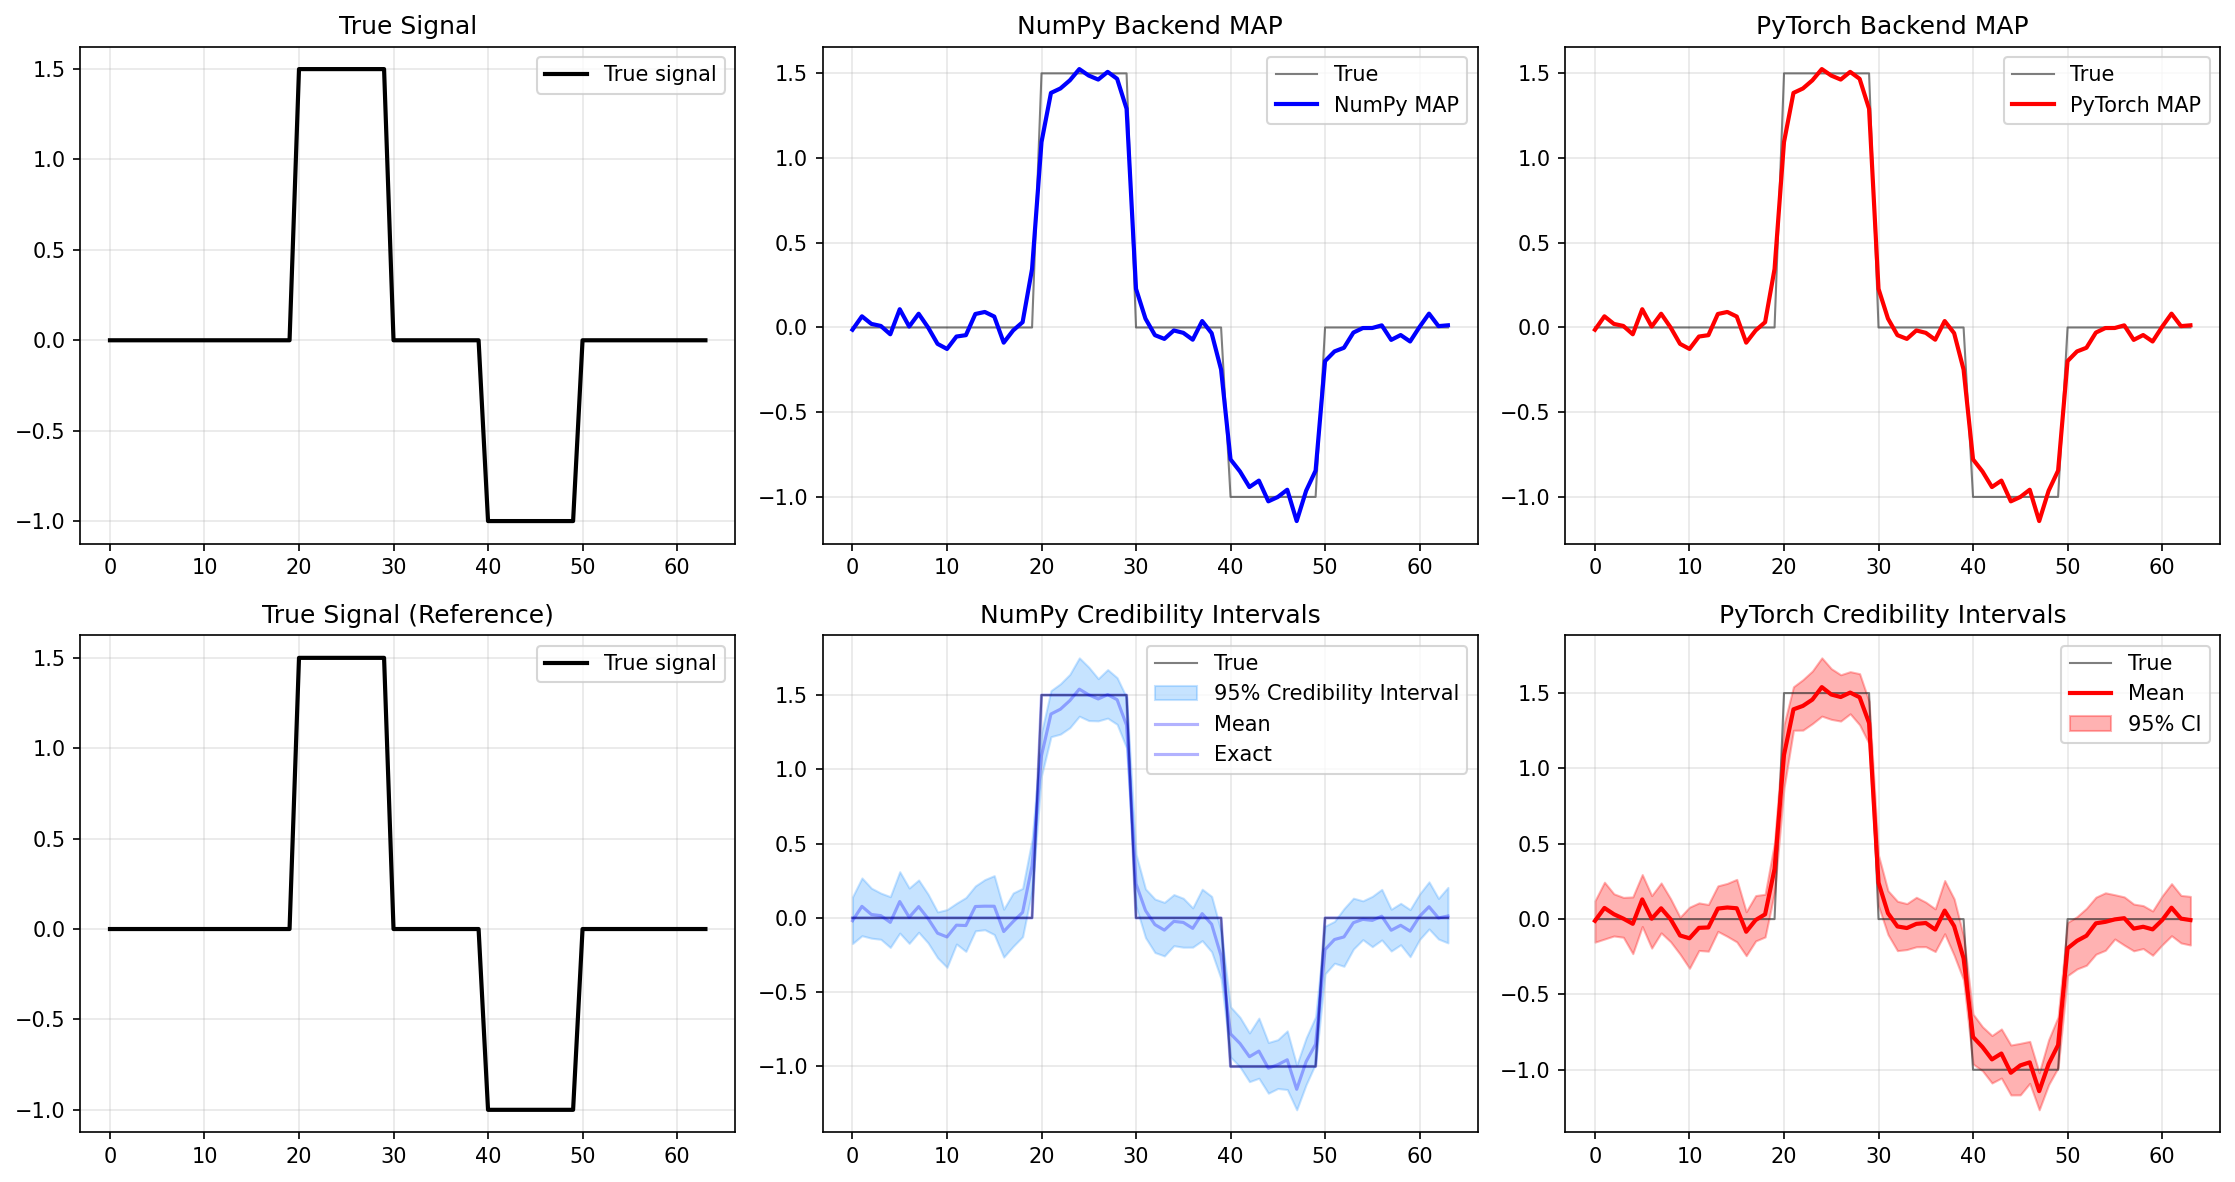
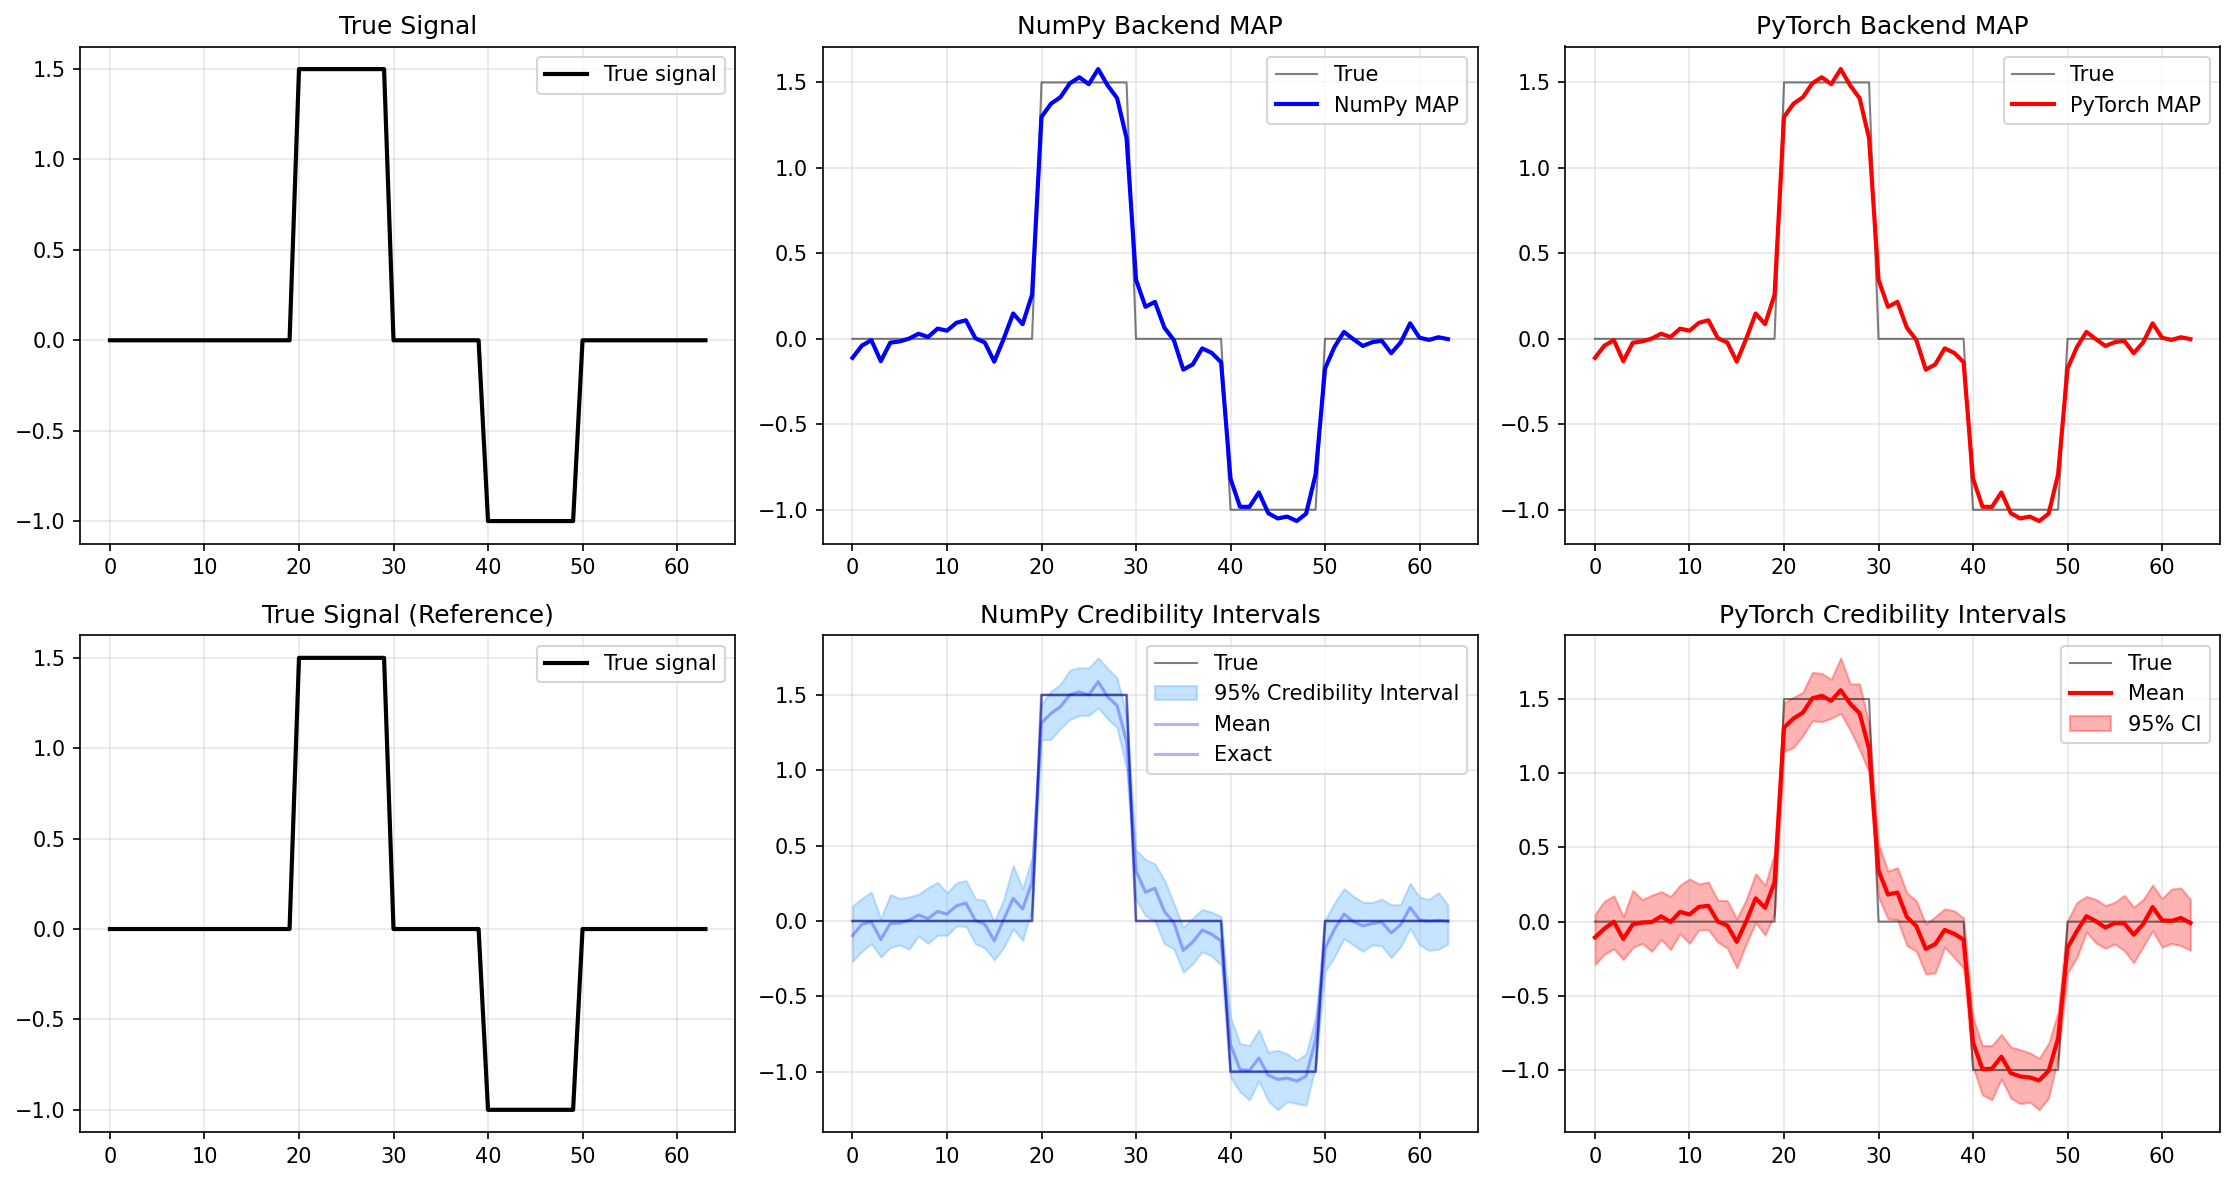
Fix Deconvolution1D_MRF_Priors demo issues
- Implement _PytorchRandomModule with randn, rand, and normal functions
- Replace _MockModule for random with proper PyTorch implementation
- Add _handle_transpose method to GMRF to avoid PyTorch deprecation warnings
- Fix tensor transpose usage for 1D arrays in GMRF.logpdf
- Demo now runs successfully with both NumPy and PyTorch backends
- All MAP estimation and posterior sampling working correctly

diff --git a/cuqi/array/_pytorch.py b/cuqi/array/_pytorch.py
@@ -473,6 +473,40 @@ def get_scipy_optimize_pytorch():
     return scipy.optimize
 
 
+class _PytorchRandomModule:
+    """PyTorch random module that mimics NumPy's random interface."""
+    
+    def randn(self, *shape):
+        """Generate random numbers from standard normal distribution."""
+        import torch as backend_module
+        if len(shape) == 1 and hasattr(shape[0], '__len__'):
+            # Handle case where shape is passed as a single argument (e.g., len(array))
+            size = shape[0]
+        else:
+            size = shape
+        return backend_module.randn(size, dtype=backend_module.float64)
+    
+    def rand(self, *shape):
+        """Generate random numbers from uniform distribution [0,1)."""
+        import torch as backend_module
+        if len(shape) == 1 and hasattr(shape[0], '__len__'):
+            size = shape[0]
+        else:
+            size = shape
+        return backend_module.rand(size, dtype=backend_module.float64)
+    
+    def normal(self, loc=0.0, scale=1.0, size=None):
+        """Generate random numbers from normal distribution."""
+        import torch as backend_module
+        if size is None:
+            return backend_module.normal(loc, scale, (1,), dtype=backend_module.float64).item()
+        return backend_module.normal(loc, scale, size, dtype=backend_module.float64)
+    
+    def __getattr__(self, name):
+        """For other random functions, raise NotImplementedError with helpful message."""
+        raise NotImplementedError(f"random.{name} not implemented for PyTorch backend. Available: randn, rand, normal")
+
+
 def pad(array, pad_width, mode='constant', constant_values=0):
     """Pad a PyTorch tensor - basic implementation.
     
@@ -712,7 +746,7 @@ def get_backend_functions(backend_module):
         def __getattr__(self, name):
             raise NotImplementedError(f"{name} not implemented for PyTorch backend. Use NumPy backend for full functionality.")
     
-    functions['random'] = _MockModule()  # PyTorch has different random API
+    functions['random'] = _PytorchRandomModule()  # PyTorch random implementation
     functions['fft'] = _MockModule()
     functions['polynomial'] = _MockModule()
     functions['stats'] = get_scipy_stats_pytorch()

diff --git a/cuqi/distribution/_gmrf.py b/cuqi/distribution/_gmrf.py
@@ -162,12 +162,21 @@ class GMRF(Distribution):
                 raise ValueError('Precision must be a scalar or a 1D array with a single scalar element.')
         self._prec = value
 
+    def _handle_transpose(self, dev):
+        """Handle transpose properly for different backends to avoid deprecation warnings."""
+        if hasattr(dev, 'dim') and dev.dim() <= 1:
+            return dev  # 1D arrays don't need transpose
+        else:
+            return dev.T
+
     def logpdf(self, x):
         # Ensure x is in the correct backend format (needed for optimization with scipy)
         x = xp.array(x)
         mean = self.mean
         const = 0.5*(self._rank*(xp.log(self.prec)-xp.log(2*xp.pi)) + self._logdet)
-        return const - 0.5*( self.prec*((x-mean).T @ (self._prec_op @ (x-mean))) )
+        dev = x - mean
+        dev_T = self._handle_transpose(dev)
+        return const - 0.5*( self.prec*(dev_T @ (self._prec_op @ dev)) )
 
     def _gradient(self, x):
         # Ensure x is in the correct backend format (needed for optimization with scipy)
